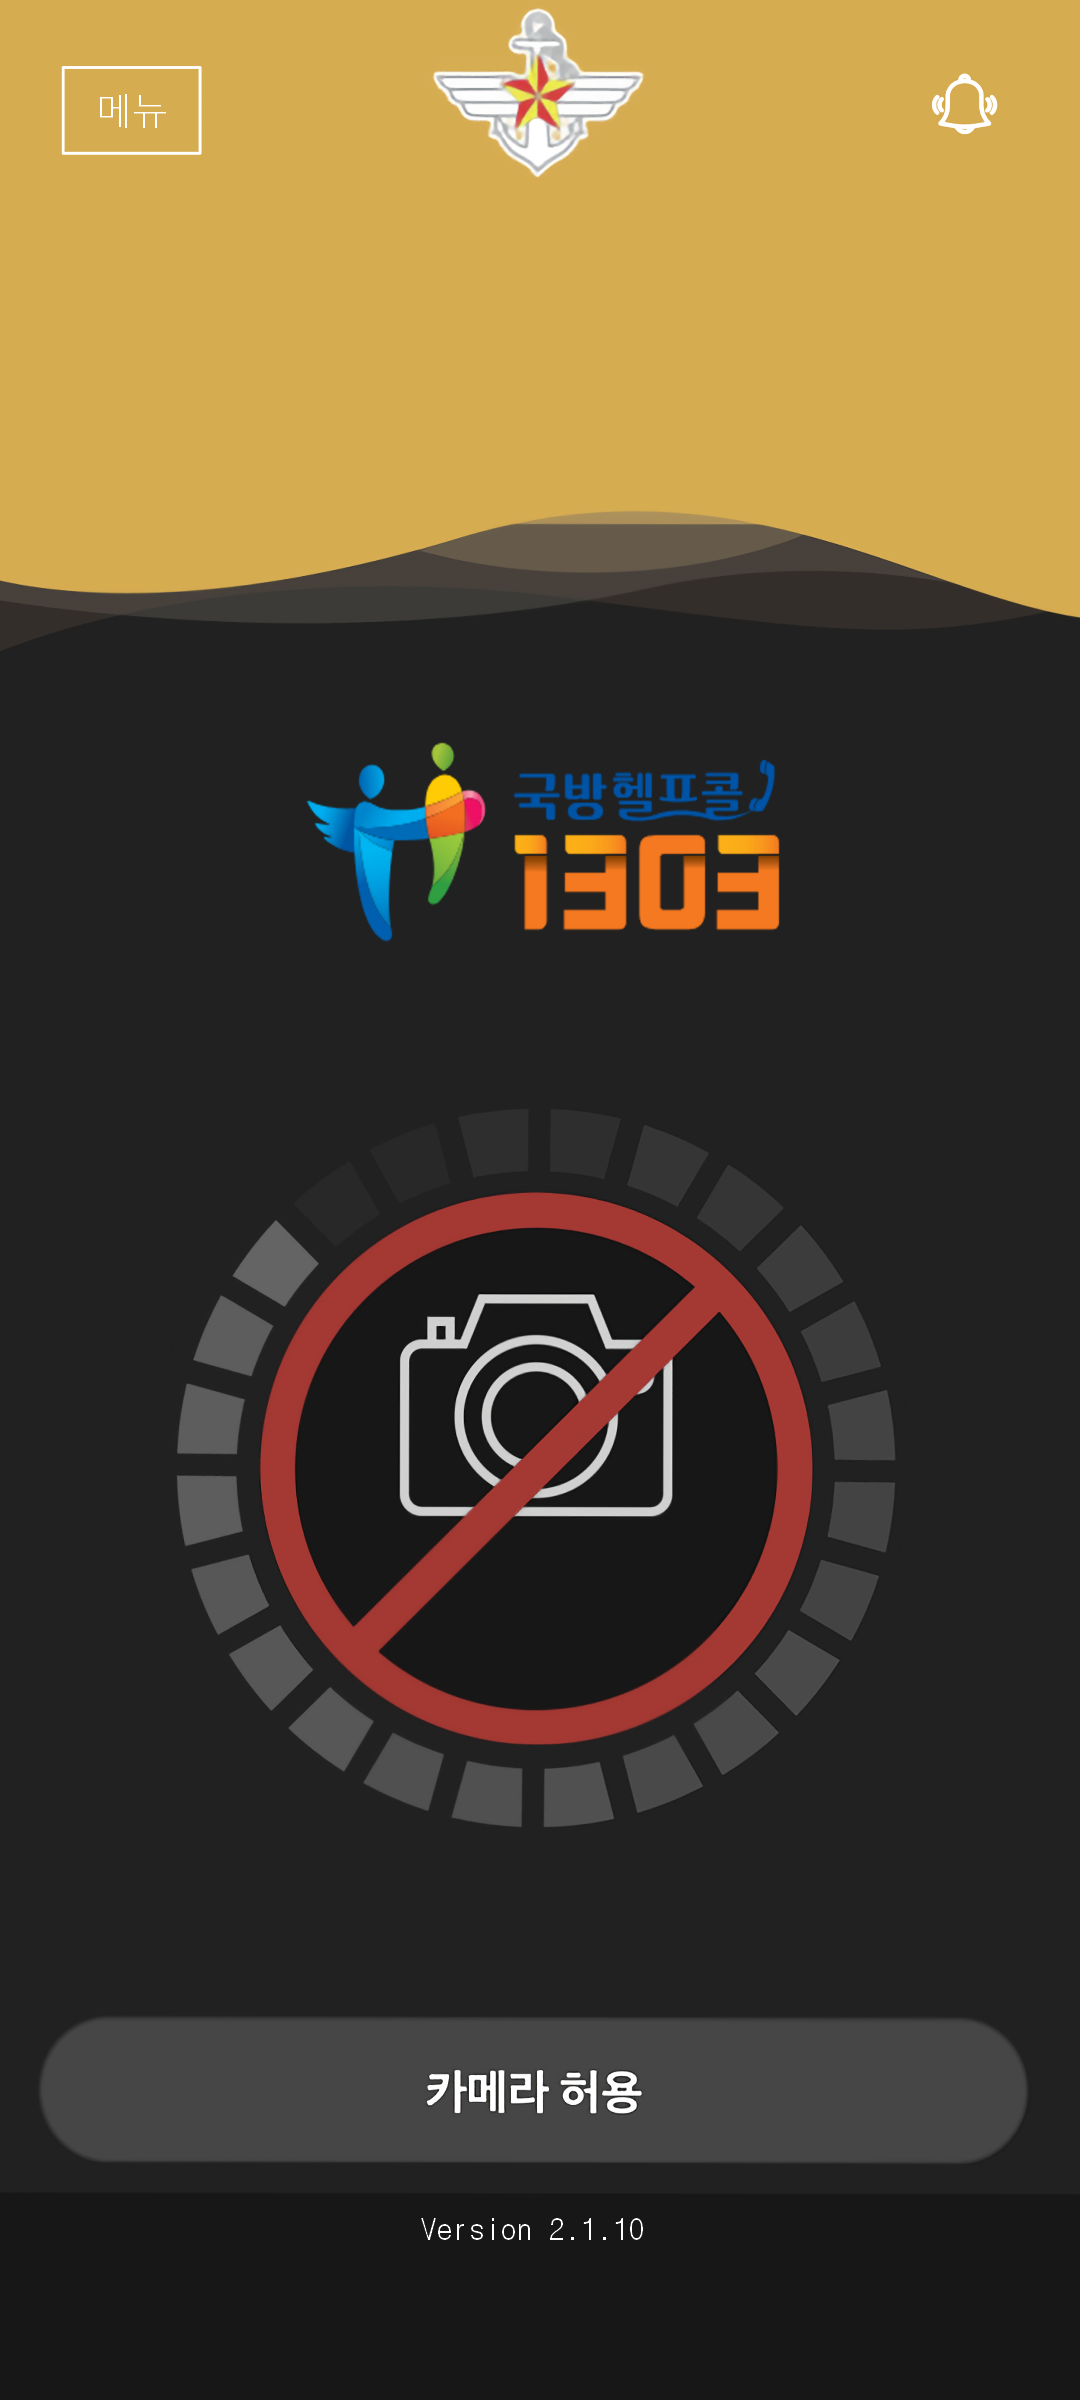
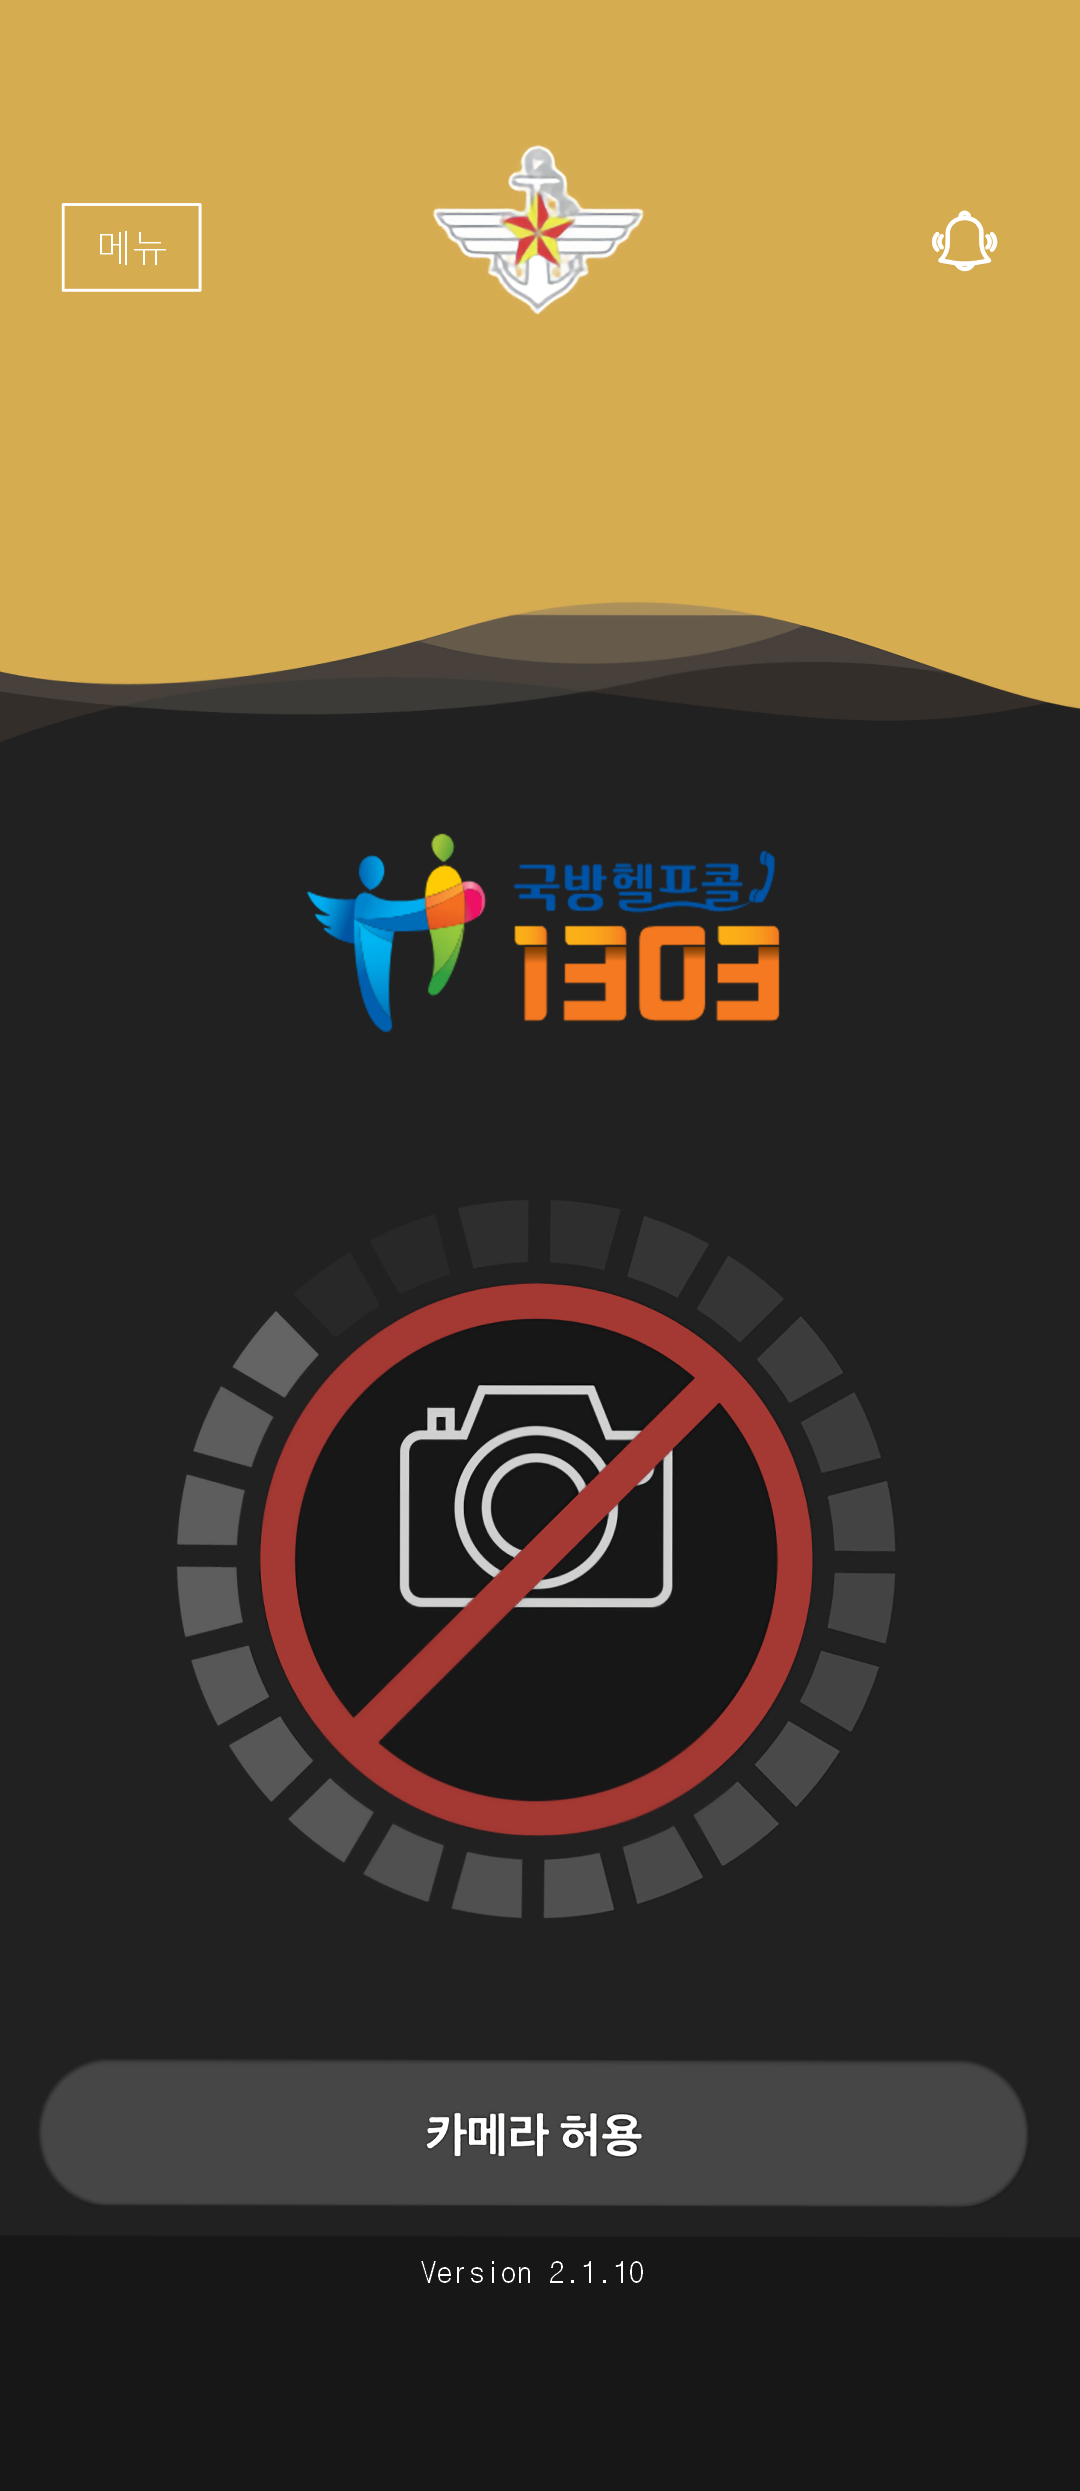
AAAAAA

diff --git a/style.css b/style.css
@@ -2,8 +2,8 @@
 body {
     font-family: "Nanum Myeongjo", serif;
     background-image: url("bg.png");
-    width: 1080px;
-    background-size: 1080px;
+    width: 1100px;
+    background-size: 1100px;
     background-repeat: no-repeat;
 }
 
@@ -11,9 +11,9 @@ body {
     rotate: 0deg;
     z-index: -1;
     position: absolute;
-    top: 920px;
-    left: -10px;
-    width: 1100px;
+    top: 1028px;
+    left: -14px;
+    width: 1120px;
 }
 
 input {
@@ -26,8 +26,8 @@ input {
     font-weight: bold;
     color: white;
     position: absolute;
-    top: 230px;
-    left: 220px;
+    top: 350px;
+    left: 240px;
 }
 
 #lock {
@@ -35,14 +35,14 @@ input {
     font-weight: bold;
     color: white;
     position: absolute;
-    top: 310px;
-    left: 220px;
+    top: 430px;
+    left: 240px;
 }
 
 #clock {
     color: white;
     font-size: 42px;
-    top: 1540px;
+    top: 1680px;
     left: 435px;
     position: absolute;
     text-align: center;
